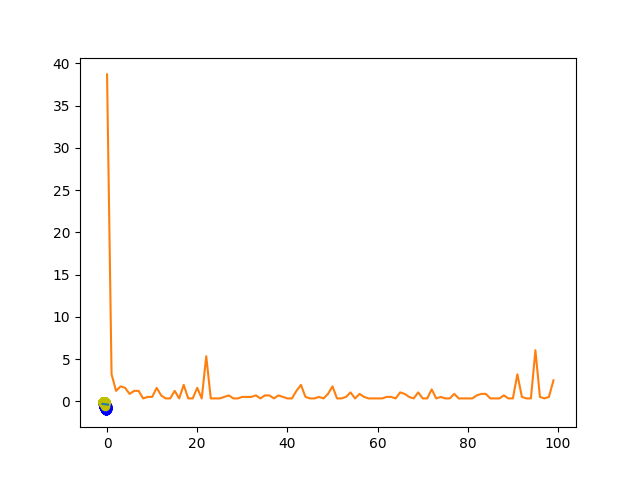
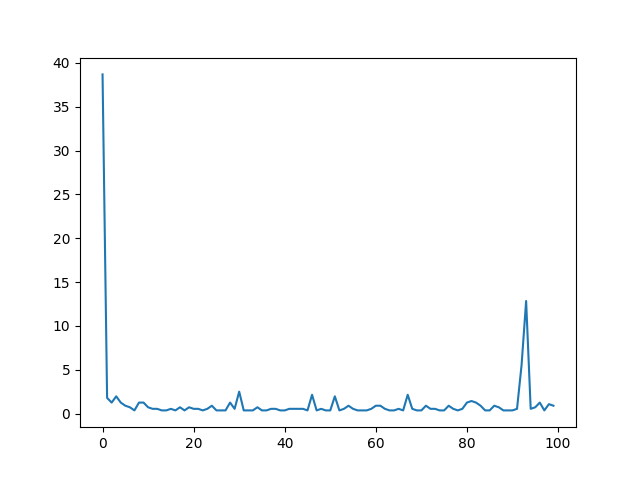
Minor errors fix of graphs

diff --git a/HW1/code/main.py b/HW1/code/main.py
@@ -36,6 +36,7 @@ def visualize_features(X, y):
 	plt.scatter(fives[:,0], fives[:,1], c='b')
 	plt.scatter(ones[:,0], ones[:,1], c='y')
 	plt.savefig('train_features_img' + str(img_index) + '.png')
+	plt.gcf().clear()
 	img_index += 1
 
 	### END YOUR CODE
@@ -74,6 +75,7 @@ def visualize_result(X, y, W):
 	plt.scatter(fives[:,0], fives[:,1], c='b')
 	plt.scatter(ones[:,0], ones[:,1], c='y')
 	plt.savefig('test_features_img' + str(img_index) + '.png')
+	plt.gcf().clear()
 	img_index += 1
 
 	### END YOUR CODE
@@ -173,6 +175,7 @@ def main():
 	# Explore different hyper-parameters.
 	## YOUR CODE HERE
 
+	print('Tuning hyper-parameters...')
 	errors = []
 	for learning_rate in np.linspace(0,10,num=100):
 		logisticR_classifier = logistic_regression(learning_rate, max_iter=100)
@@ -181,6 +184,7 @@ def main():
 		errors.append(100-accuracy)
 	plt.plot(errors)
 	plt.savefig('variation_learning_rate_img' + str(img_index) + '.png')
+	plt.gcf().clear()
 	img_index += 1
 
 	errors = []
@@ -191,6 +195,7 @@ def main():
 		errors.append(100-accuracy)
 	plt.plot(errors)
 	plt.savefig('variation_max_iters_img' + str(img_index) + '.png')
+	plt.gcf().clear()
 	img_index += 1
 
 	best_logisticR = logistic_regression(learning_rate=0.5, max_iter=100)
